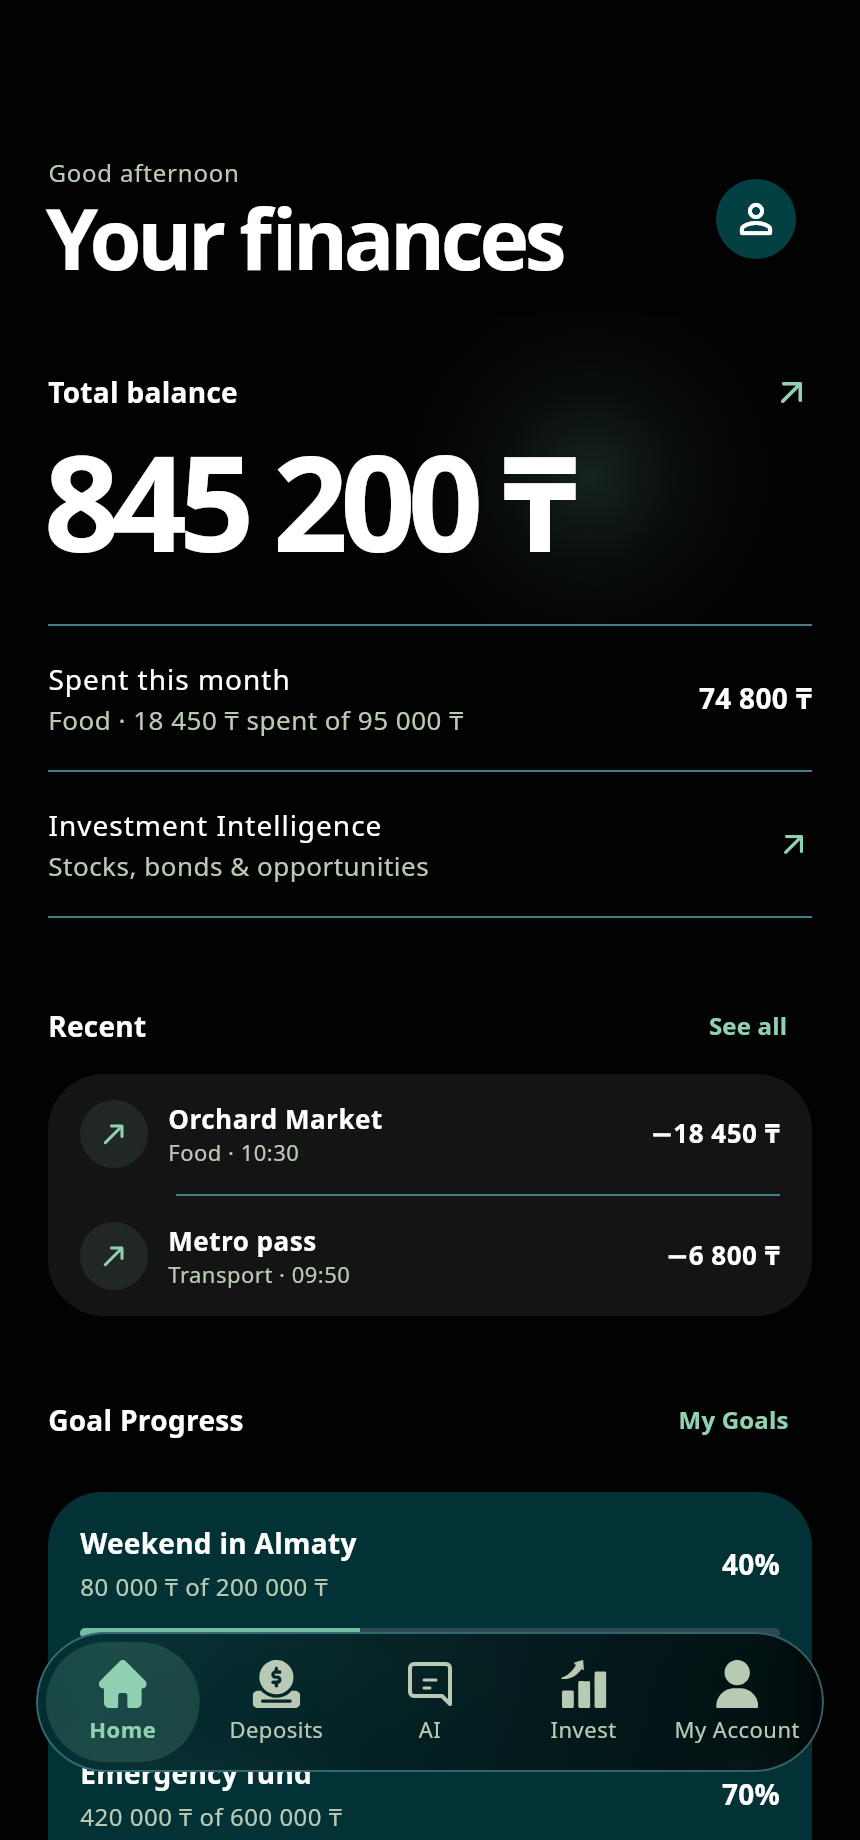
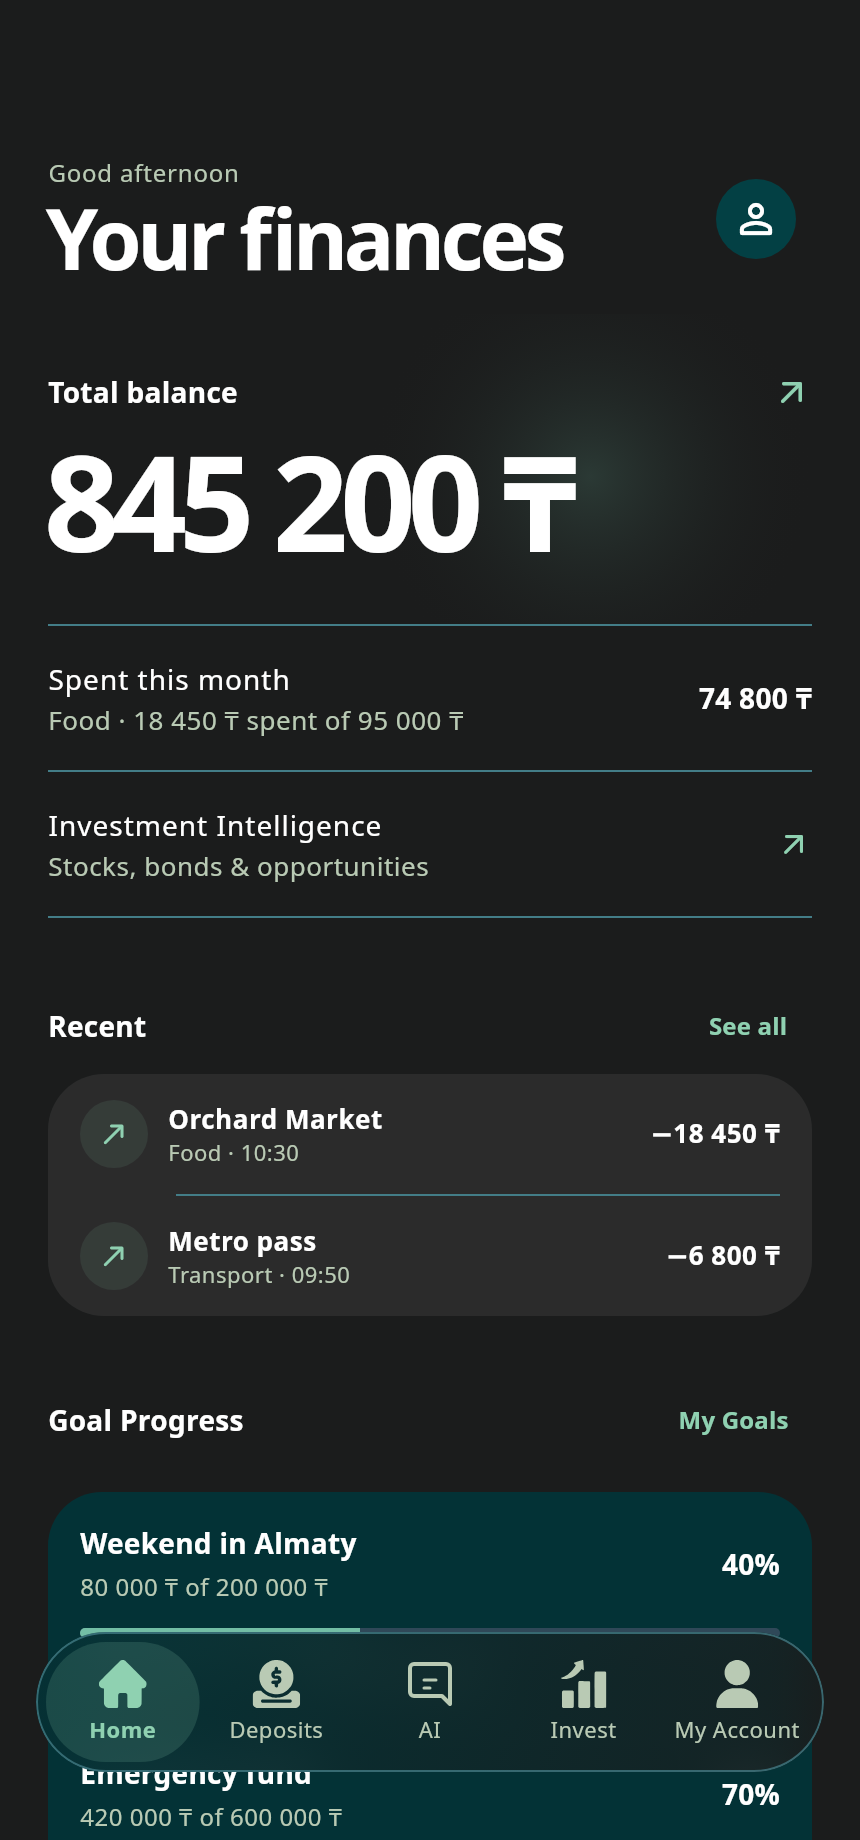
fix(ui): soften the dark theme background

diff --git a/test/app_appearance_test.dart b/test/app_appearance_test.dart
@@ -18,6 +18,8 @@ void main() {
       final colors = AppColors(brightness);
       for (final (text, surface) in [
         (colors.text, colors.canvas),
+        (colors.muted, colors.canvas),
+        (colors.action, colors.canvas),
         (colors.text, colors.surface),
         (colors.muted, colors.surface),
         (colors.onPrimary, colors.primary),
@@ -82,8 +84,8 @@ void main() {
       expect(
         Theme.of(
           tester.element(find.text('Басты бет')),
-        ).scaffoldBackgroundColor,
-        const Color(0xFF020202),
+        ).scaffoldBackgroundColor.toARGB32(),
+        0xFF1B1C1C,
       );
       await tester.tap(find.text('Инвестиции'));
       expect(selected, 1);

diff --git a/lib/shared/theme.dart b/lib/shared/theme.dart
@@ -17,6 +17,8 @@ abstract final class _Brand {
   static const deepTeal = Color(0xFF034044);
   static const white = Color(0xFFFFFFFF);
   static const green = Color(0xFF73BEA5);
+
+  static final charcoal = Color.lerp(black, ice, .105)!;
 }
 
 class AppColors {
@@ -24,7 +26,7 @@ class AppColors {
 
   final Brightness brightness;
   bool get isDark => brightness == Brightness.dark;
-  Color get canvas => isDark ? _Brand.black : _Brand.ice;
+  Color get canvas => isDark ? _Brand.charcoal : _Brand.ice;
   Color get surface => isDark ? _Brand.deep : _Brand.white;
   Color get subtleSurface => isDark ? _Brand.deepTeal : _Brand.ice;
   Color get mutedSurface => isDark ? _Brand.slate : _Brand.sage;

diff --git a/docs/ui-v3/README.md b/docs/ui-v3/README.md
@@ -13,7 +13,7 @@ This review covers Home, Investment Intelligence and AI chat on `experimental/ui
 | Attachments in display order | SmartSave application |
 | --- | --- |
 | 1–2 · Apple Wallet | Move the amount and label out of a heavy card. Use right-aligned transaction values, a single grouped activity surface and quiet dividers. Balance detail remains outside this review. |
-| 3 and 9 · Fuse Plus, repeated attachment | Keep the dark canvas nearly black, with limited surface tint and big type. Apply this restraint to the chat transcript and market overview. |
+| 3 and 9 · Fuse Plus, repeated attachment | Use a soft charcoal dark canvas, with limited surface tint and big type. Apply this restraint to the chat transcript and market overview. |
 | 4 · Binance | Place signed data in a zero-centered analytical chart. Use selectable market and research views. |
 | 5 · Starling | Give the balance its own atmospheric space. Place records lower on the page, on a distinct surface. |
 | 6 · Public portfolio | Give price comparisons shared space and a common scale. Keep section navigation and the dock compact. |
@@ -30,6 +30,6 @@ This review covers Home, Investment Intelligence and AI chat on `experimental/ui
 
 The six images are actual Flutter widget renders at 430 × 920 logical pixels, exported at 2×. They use one local SQLite fixture with fictional financial records and a saved fictional conversation. The capture renderer uses Noto Sans and DejaVu glyph fallbacks. The chat status reflects the offline fixture.
 
-The floating control materials use clipped Flutter blur, an opaque high-contrast fallback and a reduced-motion selection mode. Native iOS glass and device-level keyboard, safe area, Reduce Transparency and frame timing still need device review. No new packages were required.
+The dark canvas blends the approved black and ice colors for a softer charcoal backdrop. The floating control materials use clipped Flutter blur, an opaque high-contrast fallback and a reduced-motion selection mode. Native iOS glass and device-level keyboard, safe area, Reduce Transparency and frame timing still need device review. No new packages were required.
 
 Flutter analysis finished with zero diagnostics. The complete Flutter suite passed 65 tests with coverage enabled. The two compact account journeys exercise the new research segment and history sheet. Streaming and conversation persistence were exercised with mocked requests.
